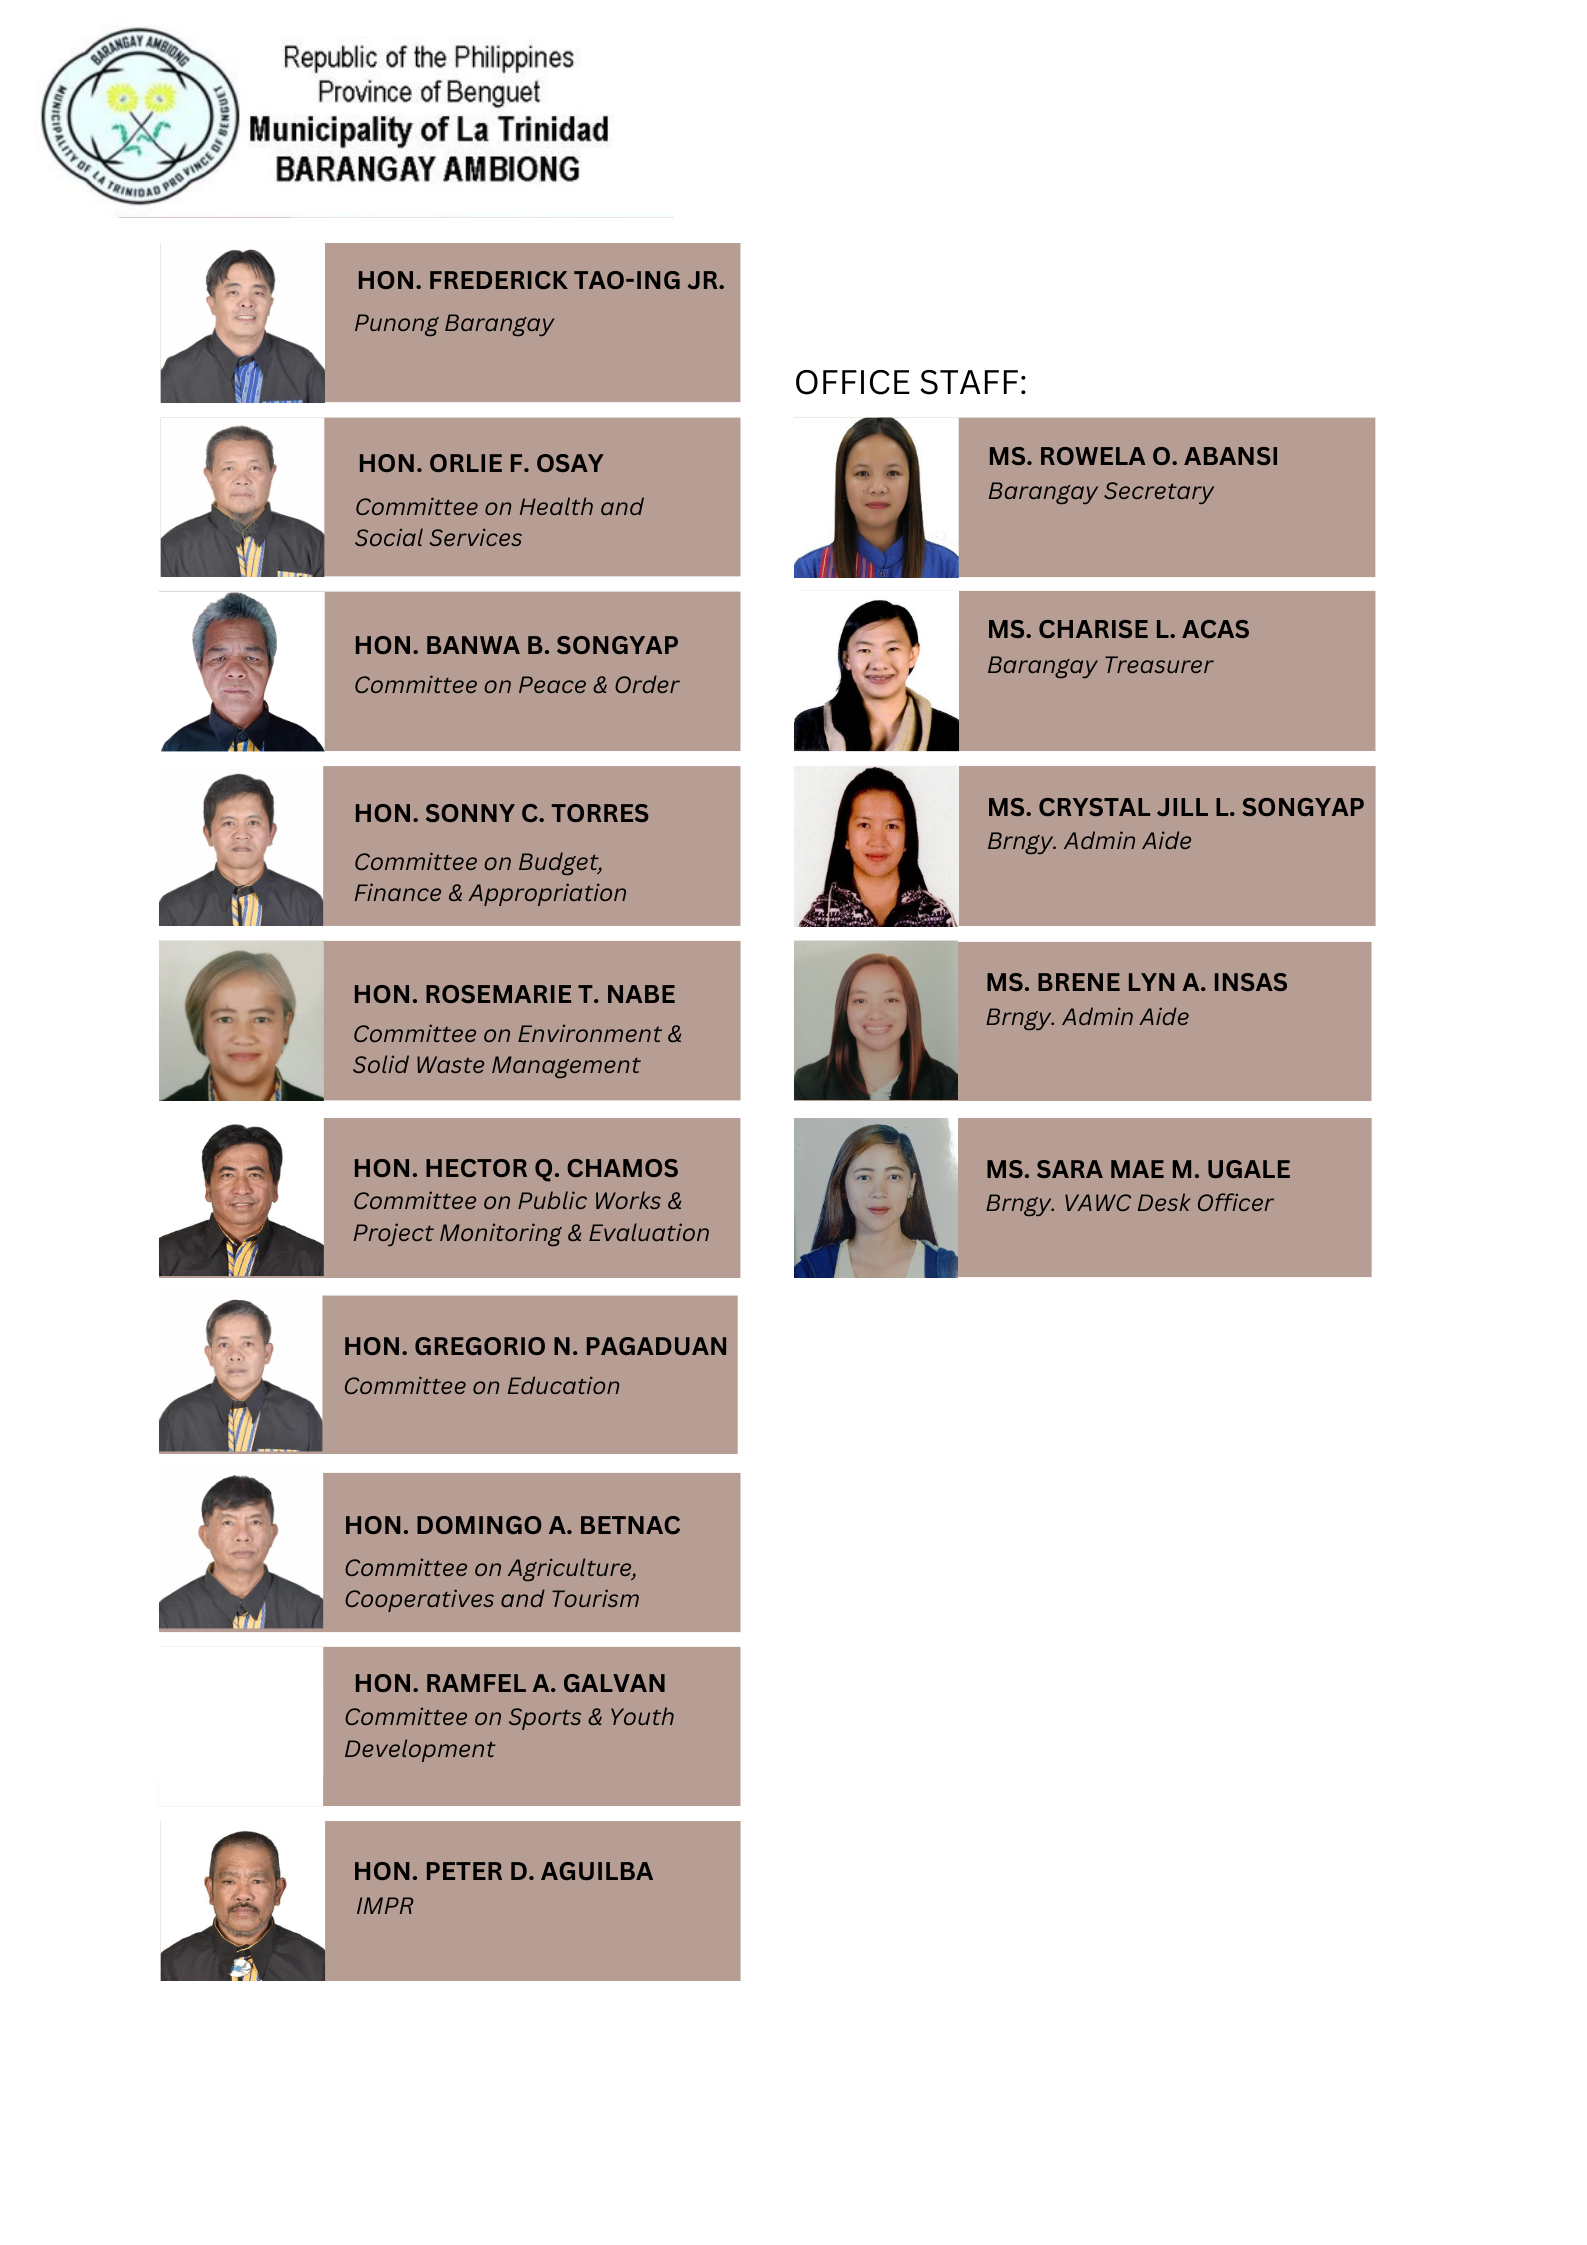
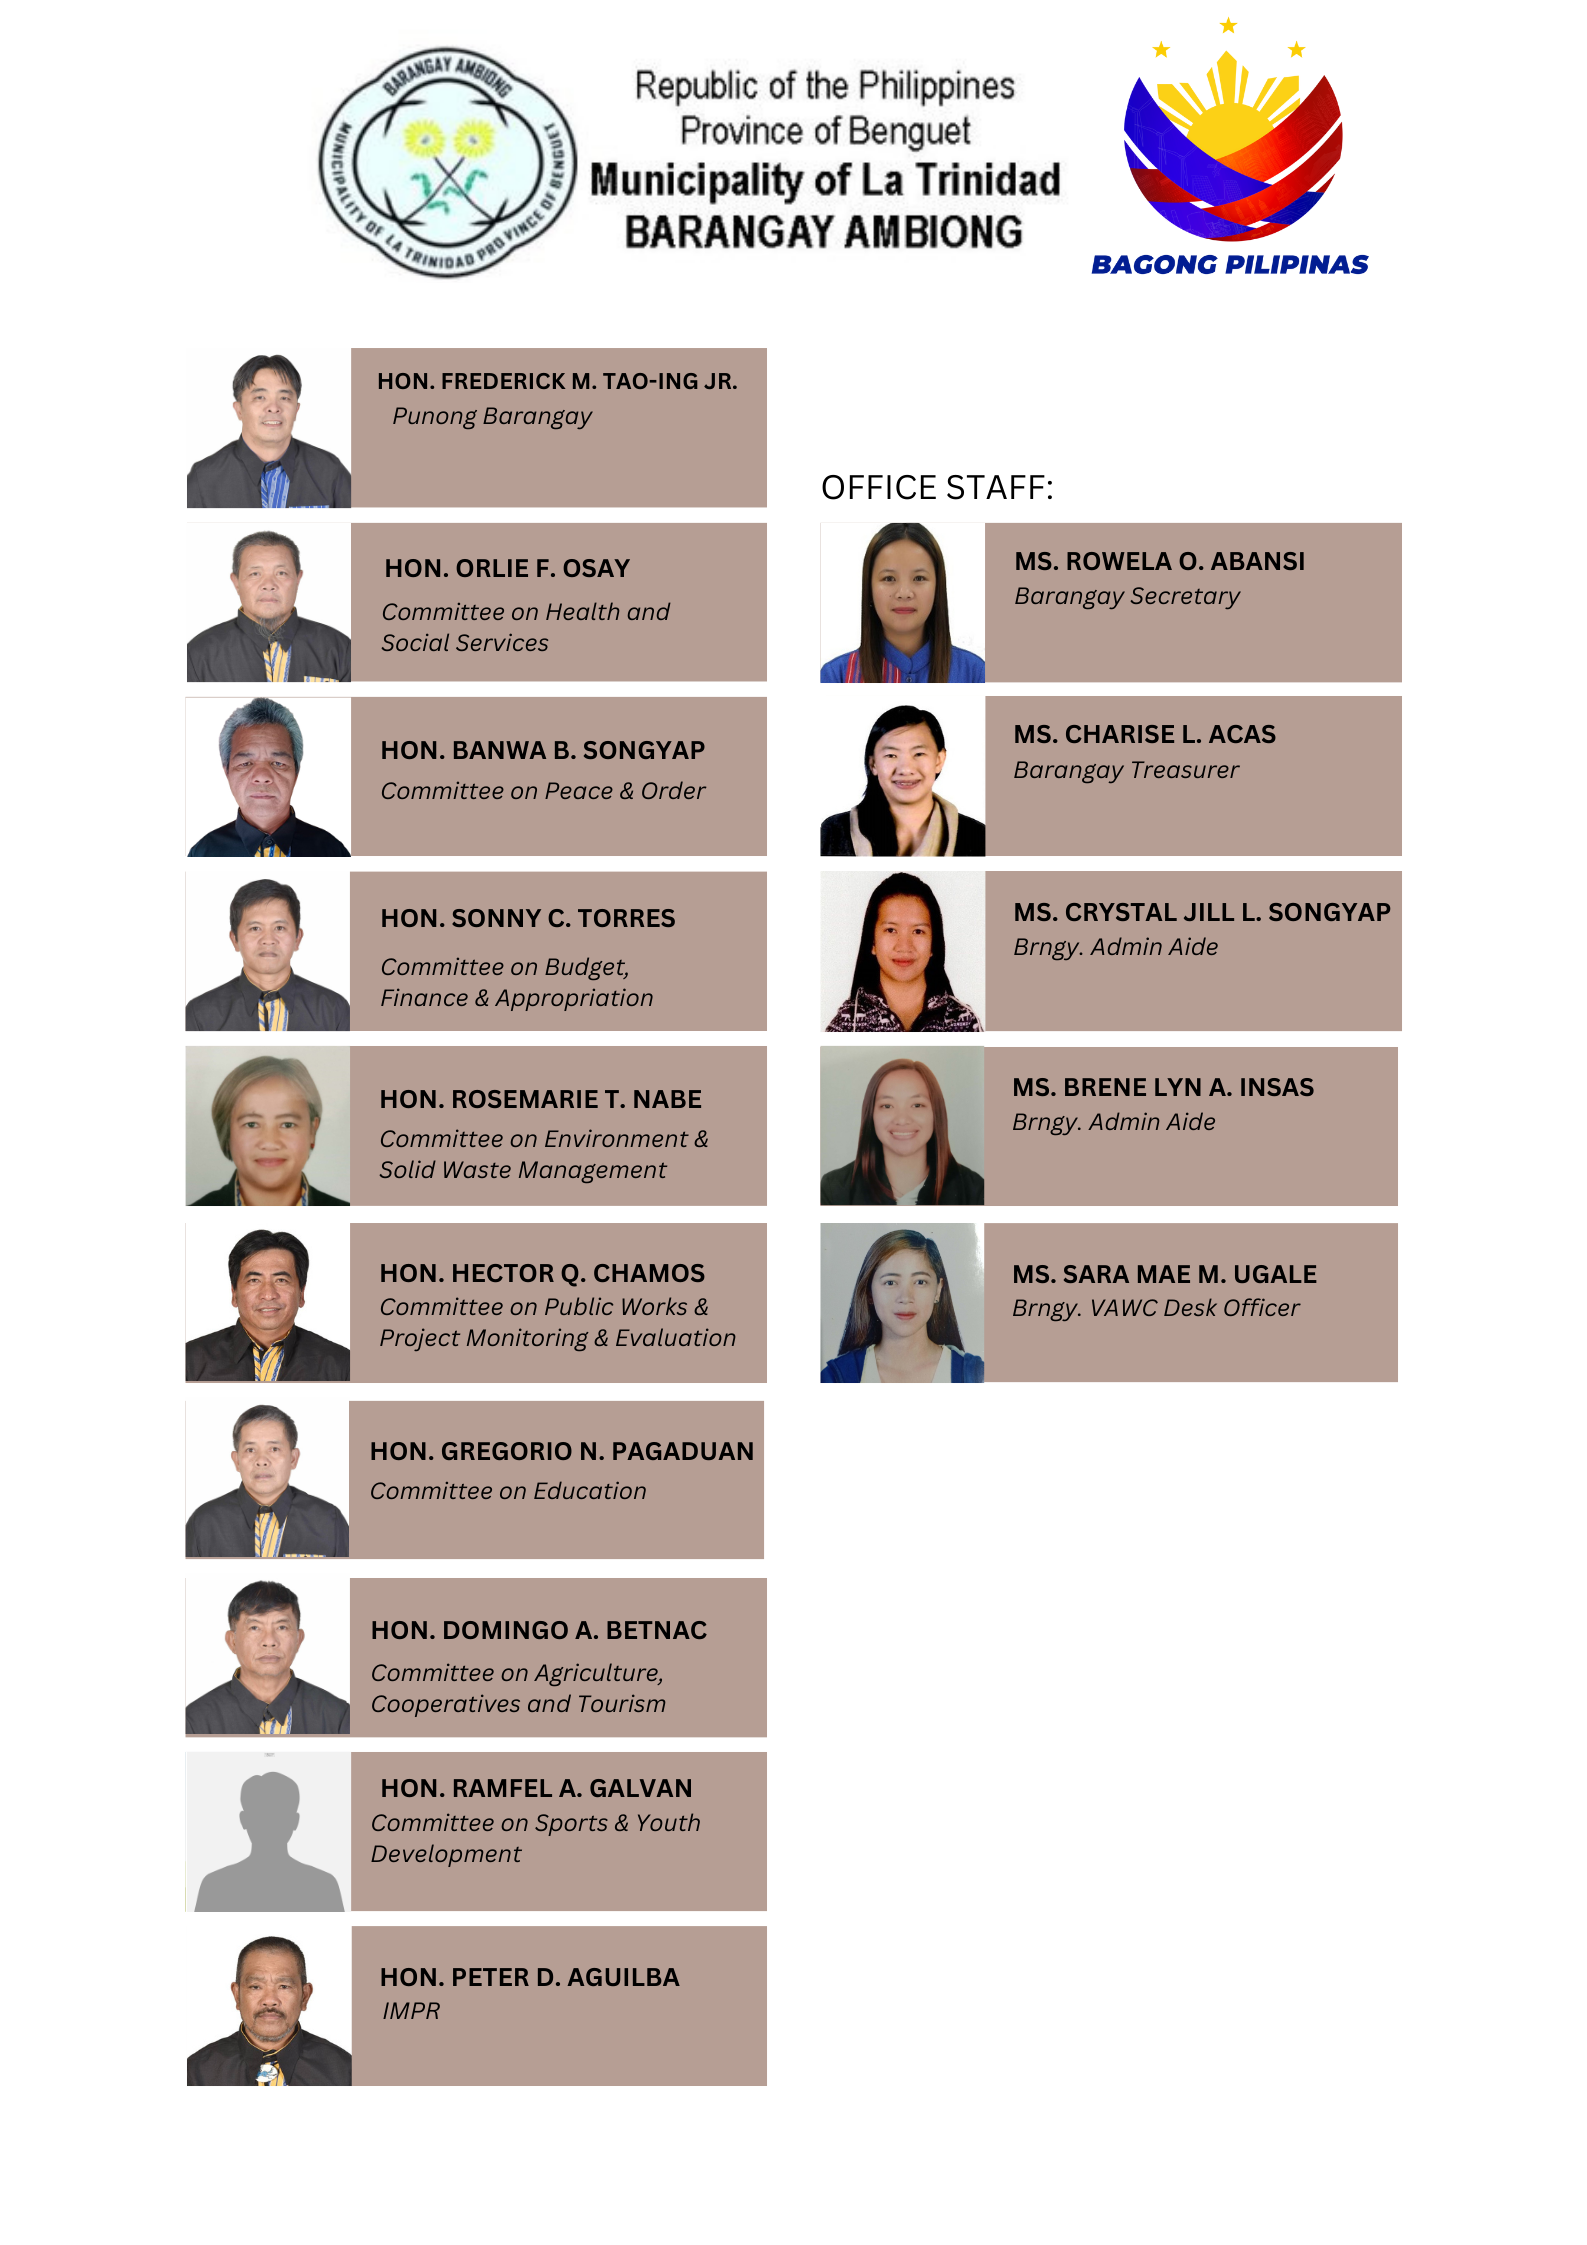
UPDATE: slight change in officials and added more official list(tanods and barangay health workers)

Changed region(s): [[0.0309, 0.0, 0.8954, 0.9354], [0.6793, 0.0312, 0.8645, 0.1247]]

diff --git a/officials.html b/officials.html
@@ -110,6 +110,25 @@
           </div>
         </section>
 
+        <section class="side-container">
+          <div class="side-card">
+
+            <div class="card-inner">
+              <img class="official" src="./images/officials2.png" alt="">
+            </div>
+          </div>
+        </section>
+
+        <section class="side-container">
+          <div class="side-card">
+
+            <div class="card-inner">
+              <img class="official" src="./images/officials3.png" alt="">
+            </div>
+          </div>
+        </section>
+
+
       </main>
       <!-- End Main -->
 
